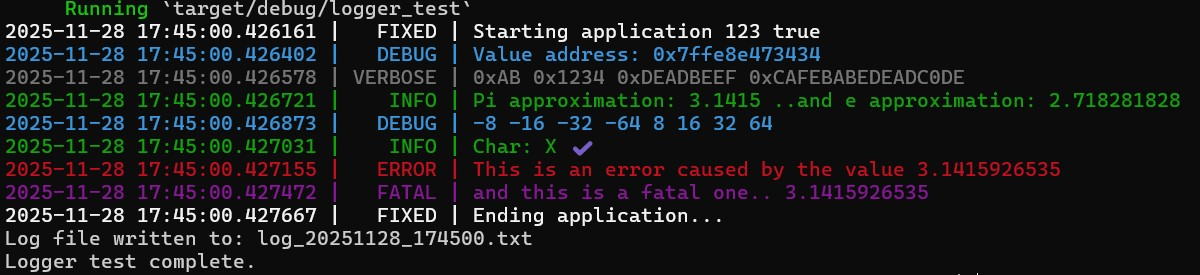
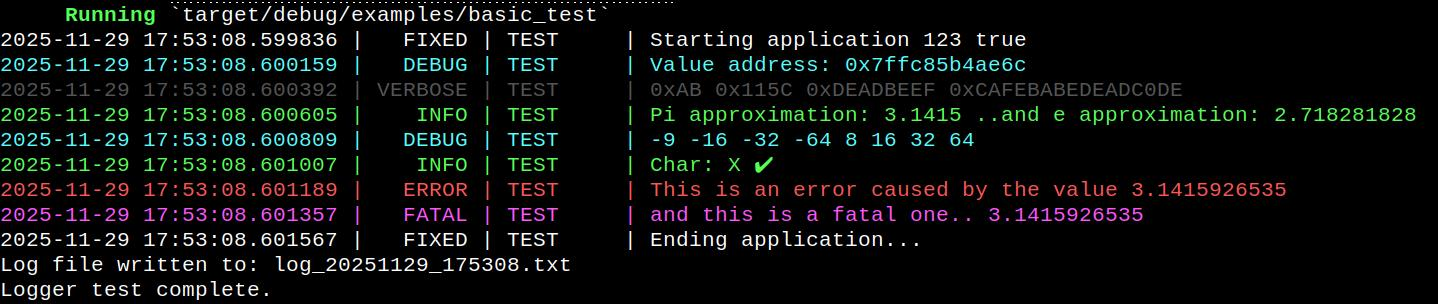
Update screenshots after adding the component to the traces

diff --git a/examples/basic_test.rs b/examples/basic_test.rs
@@ -3,7 +3,7 @@ use logger::*;
 #[allow(clippy::approx_constant)]
 fn main() {
     
-    log_module!("TEST"); // <-- NEW: module tag used in every log line
+    log_module!("TEST");
 
     // Initialize the logger:
     // console threshold = Verbose

diff --git a/README.md b/README.md
@@ -1,6 +1,6 @@
 # uRustLogger
 
-`uRustLogger` is a lightweight, flexible, and fully-featured logging library for Rust, designed for both console and file output. It supports multiple log levels, colored console output, file logging with optional icons, and a rich set of macros for all common data types. The library is ideal for applications that need structured logging with minimal setup.
+`uRustLogger` is a lightweight, flexible, and fully-featured logging library for Rust, designed for both console and file output. It supports multiple log levels, colored console output, file logging with optional icons, per-module tagging, and a rich set of macros for all common data types. The library is ideal for applications that need structured logging with minimal setup.
 
 ## Features
 
@@ -13,13 +13,18 @@
 - **File logging**:
   Logs can be written to a timestamped file. Optionally, each log level can include Unicode emoji icons instead of plain text.
 
+- **Module support**:
+  Each log message can include a module tag to indicate the source of the log. Use the macro `log_module!("MODULE_NAME");` at the top of your Rust file to set the module name for all subsequent logs from that file.  
+  **Note:** Module names are limited to 8 characters to ensure proper alignment in log output.
+
 - **Configurable formatting**:
   - Include/exclude timestamps
   - Enable/disable console colors
   - Use icons or plain text in log files
+  - Include module tags in log output
 
 - **Rich macro-based API**:
-  - `log_print_multi!` – log multiple values at once
+  - `log_print!` – log multiple values at once
   - Type-specific macros for all Rust primitive types:
     - Strings: `log_str!`
     - Integers: `log_i8!`, `log_i16!`, `log_i32!`, `log_i64!`
@@ -35,12 +40,20 @@
 - **Initialization macros**:
   `log_init!` to configure the logger and `log_deinit!` to safely shut it down.
 
+- **Per-file module tagging**:
+  Use `log_module!("MODULE_NAME");` to assign a module name for all log statements in a file. This module name will appear in both console and file output next to the log level, making it easier to trace the origin of messages.  
+  **Note:** Only the first 8 characters of the module name are used for alignment.
+
 ## Quick Setup
 
 ```rust
 use logger::*;
 
+#[allow(clippy::approx_constant)]
 fn main() {
+    
+    log_module!("TEST");
+
     // Initialize the logger:
     // console threshold = Verbose
     // file threshold = Verbose
@@ -54,7 +67,7 @@ fn main() {
         true,              // enable file logging
         true,              // enable colors
         true,              // include date
-        true               // use icons in file
+        false              // use icons in file
     );
 
     // --- Basic string, integer, bool ---
@@ -77,7 +90,7 @@ fn main() {
     log_print!(
         LogLevel::Verbose,
         log_hex8!(0xABu8),
-        log_hex16!(0x1234u16),
+        log_hex16!(4444u16),
         log_hex32!(0xDEADBEEFu32),
         log_hex64!(0xCAFEBABEDEADC0DEu64)
     );
@@ -92,9 +105,10 @@ fn main() {
     );
 
     // --- All integer types ---
+    let i8val = -9;
     log_print!(
         LogLevel::Debug,
-        log_i8!(-8),
+        log_i8!(i8val),
         log_i16!(-16),
         log_i32!(-32),
         log_i64!(-64),
@@ -105,7 +119,12 @@ fn main() {
     );
 
     // --- Char logging ---
-    log_print!(LogLevel::Info, log_str!("Char:"), log_char!('X'), log_char!('✔'));
+    log_print!(
+        LogLevel::Info,
+        log_str!("Char:"),
+        log_char!('X'),
+        log_char!('✔')
+    );
 
     // --- Error example ---
     log_print!(
@@ -120,10 +139,7 @@ fn main() {
         log_f64!(3.1415926535)
     );
 
-    log_print!(
-        LogLevel::Fixed,
-        log_str!("Ending application...")
-    );
+    log_print!(LogLevel::Fixed, log_str!("Ending application..."));
 
     // --- Show file location ---
     {
@@ -133,13 +149,12 @@ fn main() {
         }
     }
 
-
-
     // Shut down logging
     log_deinit!();
 
     println!("Logger test complete.");
 }
+
 ```
 ## Testing
 
